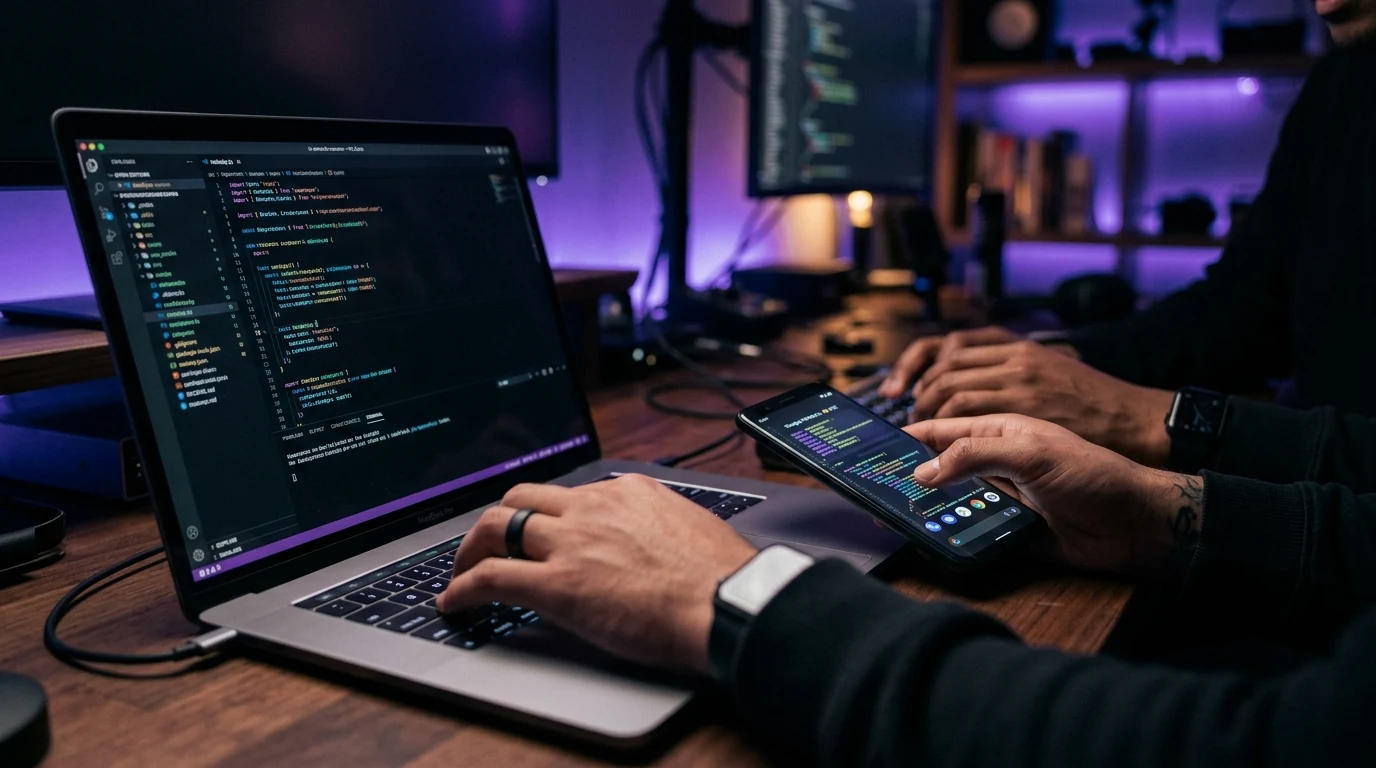
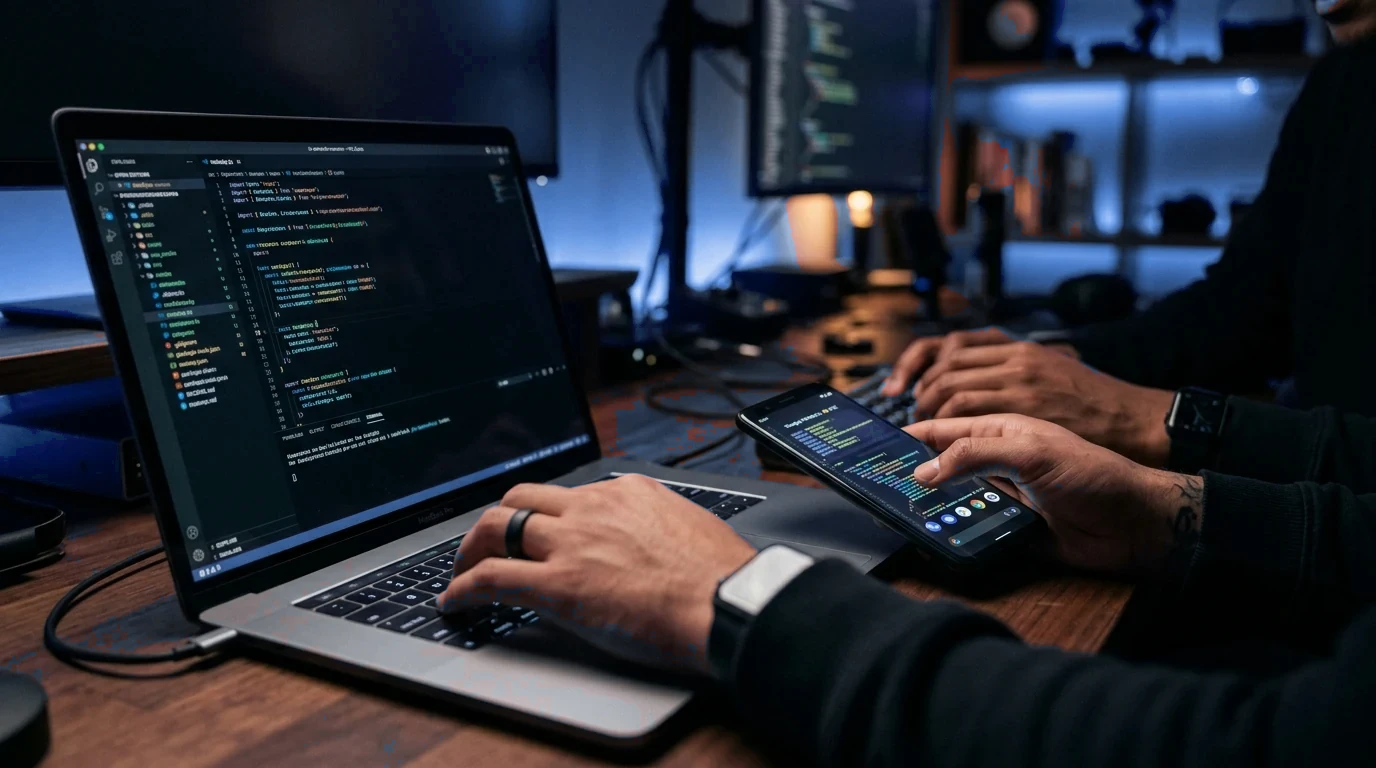
refactor: alterando paletas de cores e correção de imagens

diff --git a/css/base/variables.css b/css/base/variables.css
@@ -1,18 +1,18 @@
 /* Configuração da paleta de cores, tipografia, espaçamentos e raios */
 
 :root {
-  /* Superfícies e Fundos - Tema Escuro */
-  --color-bg-primary: #0b0c12;
-  --color-bg-secondary: #131420;
-  --color-bg-tertiary: #1b1c2e;
-  --color-bg-elevated: #23253b;
-  --color-bg-glass: rgba(11, 12, 18, 0.8);
+  /* Superfícies e Fundos - Tema Escuro (Midnight Cobalt) */
+  --color-bg-primary: #070b14;
+  --color-bg-secondary: #0c1220;
+  --color-bg-tertiary: #111a2e;
+  --color-bg-elevated: #16223d;
+  --color-bg-glass: rgba(7, 11, 20, 0.85);
 
-  /* Acentos Roxo/Violeta */
-  --color-primary: #6d44f8;
-  --color-primary-hover: #5b32e6;
-  --color-primary-light: rgba(109, 68, 248, 0.14);
-  --color-highlight: #9d7dfc;
+  /* Acentos Azul Cobalto Elétrico */
+  --color-primary: #2563eb;
+  --color-primary-hover: #1d4ed8;
+  --color-primary-light: rgba(37, 99, 235, 0.14);
+  --color-highlight: #60a5fa;
 
   /* Status */
   --color-success: #10b981;
@@ -26,17 +26,17 @@
   --color-text-on-dark: #ffffff;
   --color-text-on-dark-muted: #cbd5e1;
   --color-text-on-dark-subtle: #94a3b8;
-  --color-accent-on-dark: #9d7dfc;
+  --color-accent-on-dark: #60a5fa;
 
   /* Bordas */
   --color-border: rgba(255, 255, 255, 0.08);
   --color-border-subtle: rgba(255, 255, 255, 0.04);
-  --color-border-hover: rgba(157, 125, 252, 0.4);
+  --color-border-hover: rgba(96, 165, 250, 0.45);
 
   /* Componentes: Cards, Pílulas e Badges no Escuro */
-  --color-card-bg: #1a1a20;
+  --color-card-bg: #0e1626;
   --color-card-border: rgba(255, 255, 255, 0.09);
-  --color-pill-bg: #1d1e30;
+  --color-pill-bg: #141f36;
   --color-pill-text: #cbd5e1;
   --color-badge-bg: #ffffff;
   --color-badge-border: #e2e8f0;
@@ -55,11 +55,11 @@
   /* Controles e Navegação do Cabeçalho no Escuro */
   --color-nav-link: #94a3b8;
   --color-nav-link-hover: #ffffff;
-  --color-nav-link-active: #9d7dfc;
+  --color-nav-link-active: #60a5fa;
   --color-theme-toggle-bg: #ffffff;
   --color-theme-toggle-color: #0f172a;
   --color-theme-icon-sun: #f59e0b;
-  --color-theme-icon-moon: #6366f1;
+  --color-theme-icon-moon: #2563eb;
   --color-nav-toggle-bg: rgba(255, 255, 255, 0.08);
   --color-nav-toggle-border: rgba(255, 255, 255, 0.15);
   --color-nav-toggle-bar: #ffffff;
@@ -80,13 +80,13 @@
   --color-header-scrolled-nav-toggle-bar: var(--color-nav-toggle-bar);
 
   /* Editor de Código no Escuro */
-  --color-editor-bg: #171827;
+  --color-editor-bg: #0c1322;
   --color-editor-border: rgba(255, 255, 255, 0.08);
   --color-editor-header-bg: rgba(255, 255, 255, 0.02);
   --color-editor-header-border: rgba(255, 255, 255, 0.05);
   --color-editor-text: #e2e8f0;
-  --color-editor-shadow: rgba(0, 0, 0, 0.4);
-  --color-editor-glow: rgba(109, 68, 248, 0.2);
+  --color-editor-shadow: rgba(0, 0, 0, 0.45);
+  --color-editor-glow: rgba(37, 99, 235, 0.25);
 
   /* Card de Serviço em Destaque */
   --color-card-featured-bg: var(--color-primary);
@@ -97,12 +97,12 @@
   --color-card-featured-icon-bg: rgba(255, 255, 255, 0.2);
   --color-card-featured-icon-hover-bg: rgba(255, 255, 255, 0.28);
   --color-card-featured-icon-color: #ffffff;
-  --shadow-card-featured: 0 12px 28px -4px rgba(157, 125, 252, 0.35);
-  --shadow-card-featured-hover: 0 18px 36px -4px rgba(157, 125, 252, 0.5);
+  --shadow-card-featured: 0 12px 28px -4px rgba(37, 99, 235, 0.35);
+  --shadow-card-featured-hover: 0 18px 36px -4px rgba(37, 99, 235, 0.5);
 
   /* Ícones dos Cards de Serviço no Tema Escuro */
-  --color-card-icon-bg: rgba(157, 125, 252, 0.18);
-  --color-card-icon-hover-bg: rgba(157, 125, 252, 0.28);
+  --color-card-icon-bg: rgba(37, 99, 235, 0.16);
+  --color-card-icon-hover-bg: rgba(37, 99, 235, 0.26);
   --color-service-link-hover: #ffffff;
 
   /* Indicadores de Janela / Dots */
@@ -117,40 +117,40 @@
   --color-syntax-comment: #64748b;
 
   /* Hero: Overlays e Efeitos de Fundo */
-  --color-hero-bg: #0b0c12;
-  --color-hero-overlay-1: rgba(15, 16, 23, 0.86);
-  --color-hero-overlay-2: rgba(15, 16, 23, 0.74);
-  --color-hero-overlay-3: rgba(15, 16, 23, 0.92);
-  --color-hero-glow: rgba(109, 68, 248, 0.25);
+  --color-hero-bg: #070b14;
+  --color-hero-overlay-1: rgba(7, 11, 20, 0.80);
+  --color-hero-overlay-2: rgba(9, 16, 32, 0.62);
+  --color-hero-overlay-3: rgba(7, 11, 20, 0.86);
+  --color-hero-glow: rgba(37, 99, 235, 0.32);
   --color-logo-text: #ffffff;
-  --color-primary-glow: rgba(109, 68, 248, 0.3);
+  --color-primary-glow: rgba(37, 99, 235, 0.35);
   --color-success-glow: rgba(34, 197, 94, 0.6);
 
   /* Seção de Contato */
-  --color-contact-bg: #0d0c15;
-  --color-contact-overlay-1: rgba(18, 15, 30, 0.88);
-  --color-contact-overlay-2: rgba(24, 18, 42, 0.78);
-  --color-contact-overlay-3: rgba(14, 11, 24, 0.94);
-  --color-contact-glow: rgba(109, 68, 248, 0.32);
-  --color-contact-tag: #c4b5fd;
+  --color-contact-bg: #091530;
+  --color-contact-overlay-1: rgba(12, 26, 64, 0.82);
+  --color-contact-overlay-2: rgba(26, 66, 175, 0.68);
+  --color-contact-overlay-3: rgba(8, 18, 48, 0.86);
+  --color-contact-glow: rgba(37, 99, 235, 0.35);
+  --color-contact-tag: #bfdbfe;
   --color-contact-title: var(--color-text-on-dark);
   --color-contact-desc: var(--color-text-on-dark-muted);
-  --color-contact-card-bg: rgba(255, 255, 255, 0.05);
-  --color-contact-card-border: rgba(255, 255, 255, 0.12);
-  --color-contact-card-hover-bg: rgba(255, 255, 255, 0.09);
-  --color-contact-card-hover-border: rgba(157, 125, 252, 0.45);
-  --color-contact-card-shadow-hover: 0 16px 36px -4px rgba(0, 0, 0, 0.45), 0 0 24px rgba(109, 68, 248, 0.25);
-  --color-contact-icon-bg: rgba(255, 255, 255, 0.08);
-  --color-contact-icon-border: rgba(255, 255, 255, 0.15);
-  --color-contact-icon-hover-bg: rgba(109, 68, 248, 0.28);
-  --color-contact-icon-hover-border: rgba(157, 125, 252, 0.5);
+  --color-contact-card-bg: rgba(255, 255, 255, 0.08);
+  --color-contact-card-border: rgba(255, 255, 255, 0.16);
+  --color-contact-card-hover-bg: rgba(255, 255, 255, 0.14);
+  --color-contact-card-hover-border: rgba(191, 219, 254, 0.55);
+  --color-contact-card-shadow-hover: 0 16px 36px -4px rgba(0, 0, 0, 0.4), 0 0 28px rgba(37, 99, 235, 0.35);
+  --color-contact-icon-bg: rgba(255, 255, 255, 0.12);
+  --color-contact-icon-border: rgba(255, 255, 255, 0.20);
+  --color-contact-icon-hover-bg: rgba(37, 99, 235, 0.35);
+  --color-contact-icon-hover-border: rgba(147, 197, 253, 0.6);
   --color-contact-label: #cbd5e1;
   --color-contact-value: var(--color-text-on-dark);
   --color-contact-arrow: #cbd5e1;
   --color-contact-arrow-hover: #ffffff;
 
   /* Rodapé */
-  --color-footer-bg: #090810;
+  --color-footer-bg: #05080f;
   --color-footer-border: rgba(255, 255, 255, 0.08);
   --color-footer-text: #94a3b8;
   --color-footer-social-bg: rgba(255, 255, 255, 0.05);
@@ -222,11 +222,11 @@
   --color-bg-elevated: #e2e8f0;
   --color-bg-glass: rgba(255, 255, 255, 0.88);
 
-  /* Acentos Roxo no Fundo Claro */
-  --color-primary: #6d44f8;
-  --color-primary-hover: #5b32e6;
-  --color-primary-light: rgba(109, 68, 248, 0.08);
-  --color-highlight: #6d44f8;
+  /* Acentos Azul Cobalto no Fundo Claro */
+  --color-primary: #2563eb;
+  --color-primary-hover: #1d4ed8;
+  --color-primary-light: rgba(37, 99, 235, 0.08);
+  --color-highlight: #2563eb;
 
   /* Textos - Alto Contraste no Claro */
   --color-text-primary: #0f172a;
@@ -237,7 +237,7 @@
   /* Bordas */
   --color-border: rgba(0, 0, 0, 0.08);
   --color-border-subtle: rgba(0, 0, 0, 0.04);
-  --color-border-hover: rgba(109, 68, 248, 0.35);
+  --color-border-hover: rgba(37, 99, 235, 0.35);
 
   /* Componentes: Cards, Pílulas e Badges no Claro */
   --color-card-bg: #ffffff;
@@ -260,12 +260,12 @@
   --color-card-featured-icon-bg: rgba(255, 255, 255, 0.2);
   --color-card-featured-icon-hover-bg: rgba(255, 255, 255, 0.28);
   --color-card-featured-icon-color: #ffffff;
-  --shadow-card-featured: 0 12px 28px -4px rgba(99, 102, 241, 0.35);
-  --shadow-card-featured-hover: 0 18px 36px -4px rgba(99, 102, 241, 0.5);
+  --shadow-card-featured: 0 12px 28px -4px rgba(37, 99, 235, 0.35);
+  --shadow-card-featured-hover: 0 18px 36px -4px rgba(37, 99, 235, 0.5);
 
   /* Ícones dos Cards de Serviço no Tema Claro */
-  --color-card-icon-bg: rgba(109, 68, 248, 0.08);
-  --color-card-icon-hover-bg: rgba(109, 68, 248, 0.15);
+  --color-card-icon-bg: rgba(37, 99, 235, 0.08);
+  --color-card-icon-hover-bg: rgba(37, 99, 235, 0.15);
   --color-service-link-hover: var(--color-primary-hover);
 
   /* Sombras Suaves para Superfícies Claras */
